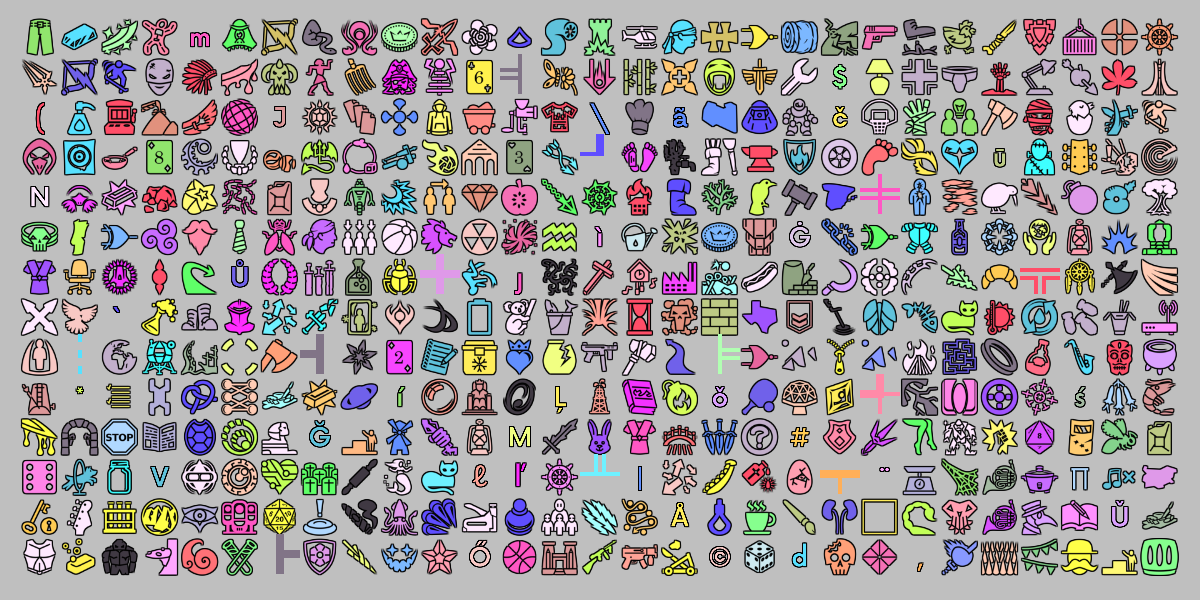
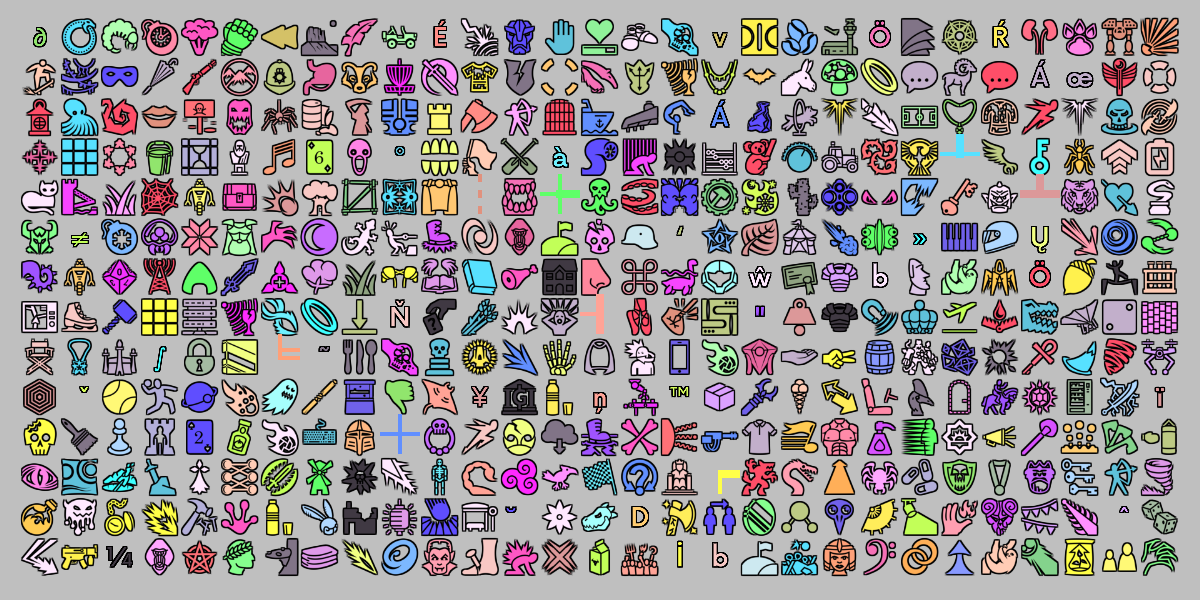
I need to figure out the basic brace escapes.
When an opening curly brace is generated as a random glyph in PreviewGenerator, now it gets replaced by anything else, but before... I couldn't quite "get" how or if it is replacing two curly braces with one.

diff --git a/src/test/java/com/github/tommyettinger/textra/PreviewEmojiGenerator.java b/src/test/java/com/github/tommyettinger/textra/PreviewEmojiGenerator.java
@@ -29,7 +29,7 @@ public class PreviewEmojiGenerator extends ApplicationAdapter {
 
     public static void main(String[] args){
         Lwjgl3ApplicationConfiguration config = new Lwjgl3ApplicationConfiguration();
-        config.setTitle("Emoji Preview Generator");
+        config.setTitle("Twemoji Preview Generator");
         config.setWindowedMode(1200, 600);
         config.disableAudio(true);
         ShaderProgram.prependVertexCode = "#version 110\n";
@@ -46,16 +46,20 @@ public class PreviewEmojiGenerator extends ApplicationAdapter {
         viewport = new StretchViewport(1200, 600);
 
         Gdx.files.local("out/").mkdirs();
-        font = KnownFonts.addEmoji(KnownFonts.getAStarry(Font.DistanceFieldType.MSDF), -4f, 4f, 4f).fitCell(24, 24, false);
+        font = KnownFonts.addEmoji(KnownFonts.getAStarry(Font.DistanceFieldType.MSDF).scaleHeightTo(20), -4f, -8f, 4f).fitCell(24, 24, true);
         layout.setBaseColor(Color.WHITE);
         StringBuilder sb = new StringBuilder(4000);
         sb.append("[%?blacken]");
-        RandomXS128 random = new RandomXS128(23, 42);
+        RandomXS128 random = new RandomXS128(123, 42);
         IntArray keys = font.mapping.keys().toArray();
         int ks = keys.size;
         for (int y = 0; y < 24; y++) {
             for (int x = 0; x < 49; x++) {
-                sb.append((char)keys.get(random.nextInt(ks)));
+                char rc;
+                do {
+                    rc = (char)keys.get(random.nextInt(ks));
+                } while (rc == '[' || rc == '{');
+                sb.append(rc);
             }
             sb.append('\n');
         }
@@ -66,6 +70,7 @@ public class PreviewEmojiGenerator extends ApplicationAdapter {
         y = (Gdx.graphics.getBackBufferHeight() + layout.getHeight() - font.cellHeight * 2) * 0.5f + font.descent * font.scaleY;
         batch.begin();
         font.enableShader(batch);
+        font.resizeDistanceField(Gdx.graphics.getBackBufferWidth(), Gdx.graphics.getBackBufferHeight());
         font.drawGlyphs(batch, layout, x, y, Align.center);
         batch.end();//
 

diff --git a/src/test/java/com/github/tommyettinger/textra/PreviewGenerator.java b/src/test/java/com/github/tommyettinger/textra/PreviewGenerator.java
@@ -24,7 +24,6 @@ public class PreviewGenerator extends ApplicationAdapter {
     long startTime;
     static final String text = "Fonts can be rendered normally,{CURLY BRACKETS ARE IGNORED} but using [[tags], you can..."
             + "\n[#E74200]...use CSS-style hex colors like [*]#E74200[*]..."
-//            + "\n[#E74200]...use CSS-style hex █colors█ like [*]#E74200[*]..."
             + "\n[darker purple blue]...use color names or descriptions, like [/]darker purple blue[/]...[ ]"
             + "\n[_]...and use [!]effects[!][_]!"
             + "\nNormal, [*]bold[*], [/]oblique[/] (like italic), [*][/]bold oblique[ ],"
